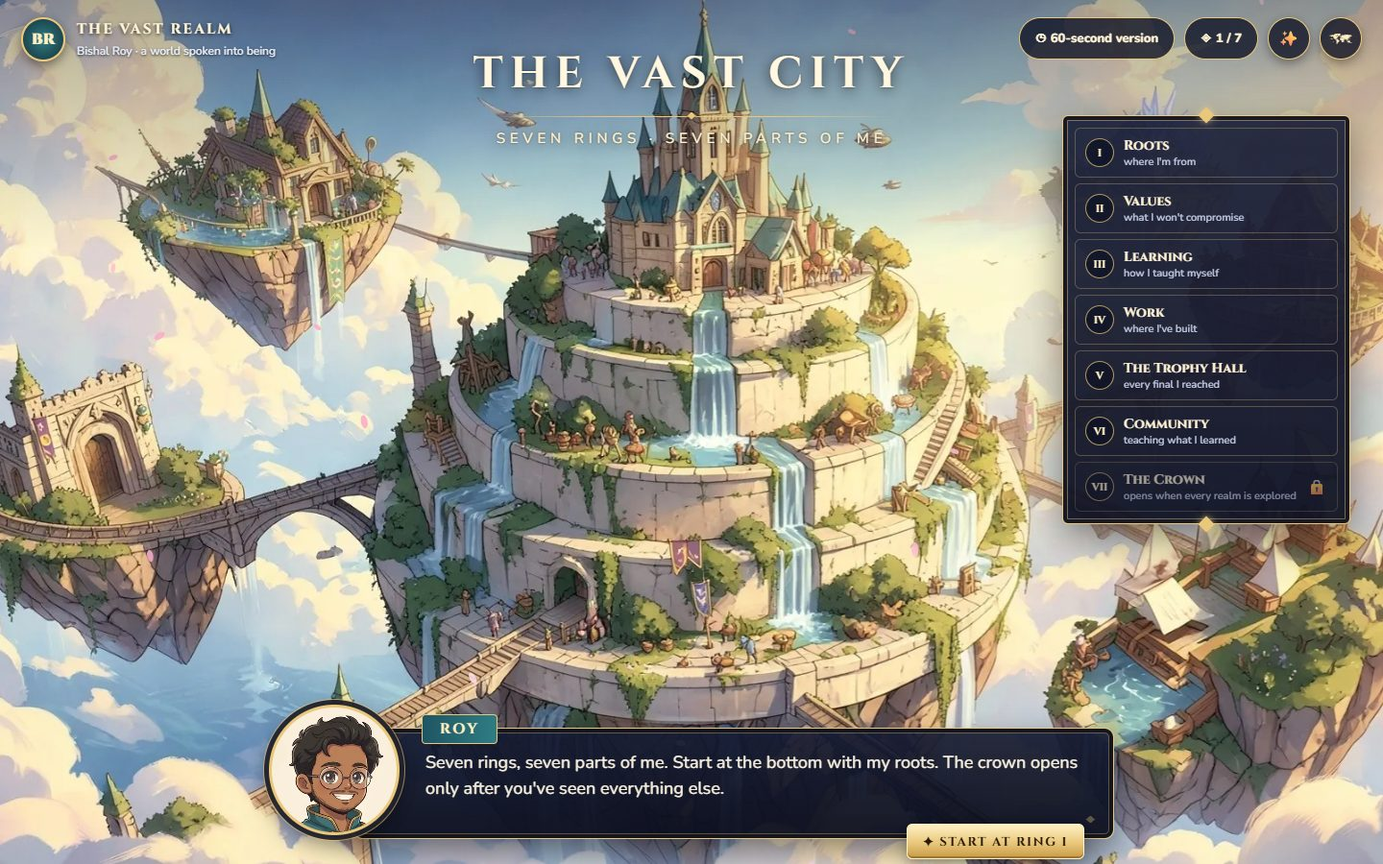
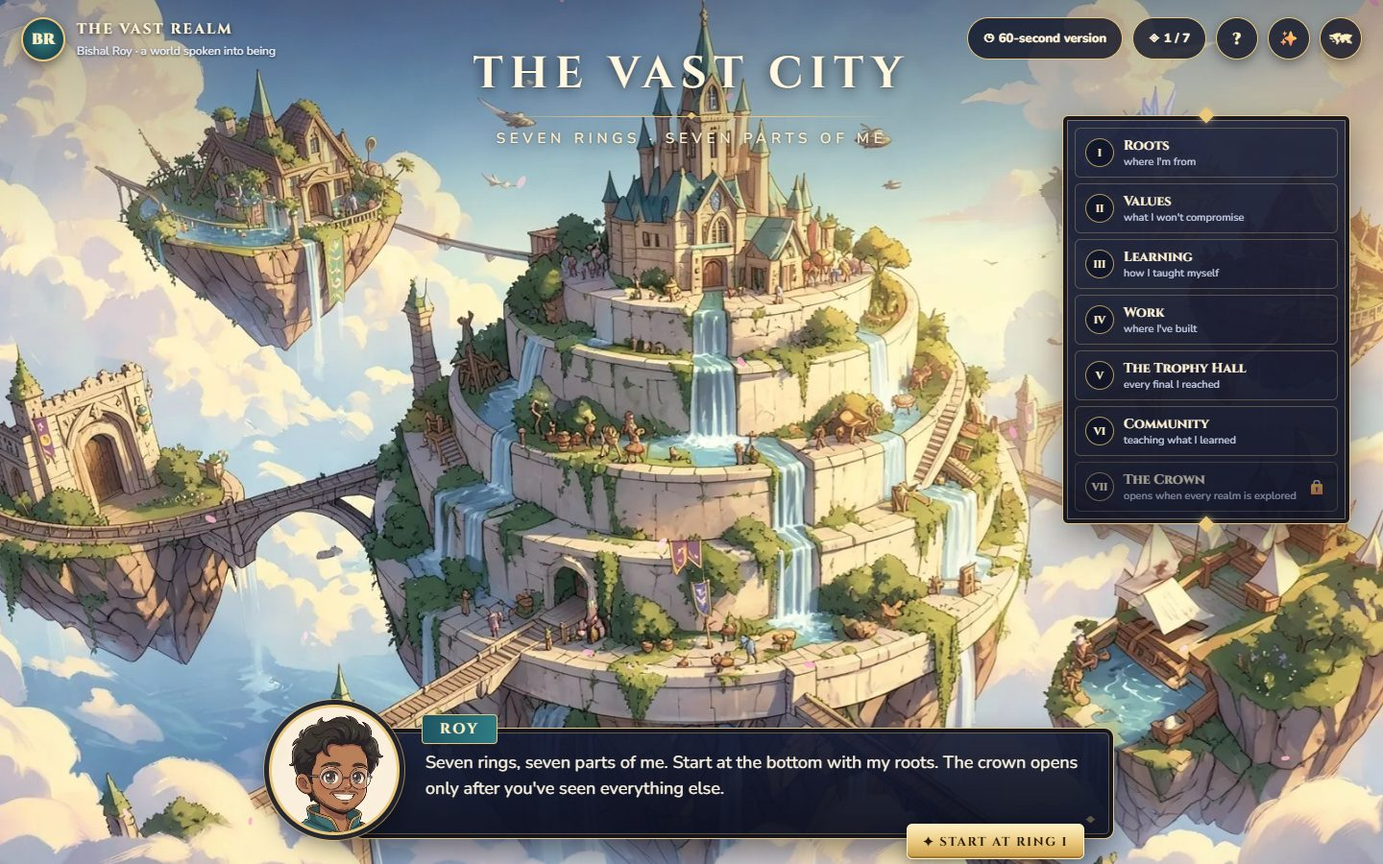
Explain every realm; the mirror reveals the cost; true Lighthouse story
- Welcome card on the first visit to each realm (what it is, how to explore),
  with a ? button in the HUD to reopen it.
- Lake of Mirrors: each tower says what it stands for; the card shows only
  the win until you turn the mirror, then the reflection (the cost) and the
  gold (how I mended it).
- Tower III and Depot II retold truthfully: second year going well, a liver
  infection, home to Chandrapur where my parents nursed me back, and the
  university practical exams a week later. (Not 'alone'.)
- Every shop and workshop explains the build in plain words.
- Tests: intro card and mirror-reveal checks; animation checks run before
  the (slow) phone screenshots.

Changed region(s): [[0.6875, 0.0, 0.9062, 0.0933]]

diff --git a/src/content.js b/src/content.js
@@ -79,7 +79,7 @@ export const LINE = [
     p: "It starts in Chandrapur. I came second in my school, with 100 out of 100 in maths. Then came two years at Inspire Junior College, preparing for JEE, until the lockdown stopped the train.",
     chips: [["2nd", "in my school"], ["100 / 100", "in maths"], ["88.80%", "overall"]],
     ticket: { n: "I", from: "Chandrapur", to: "Pune", cls: "Steam", yrs: "to 2022", brief: "The school years: second in school, full marks in maths, then JEE." },
-    expr: "happy", roy: "This is where it starts: a small steam train in Chandrapur. I came second in my school. Get used to that number. It follows me around." },
+    expr: "happy", roy: "This is my journey as a train. Stations are milestones; depots are where something broke and I rebuilt. It starts here, in Chandrapur. I came second in my school. Get used to that number." },
   { kind: "depot", id: "depot1", from: 0, to: 1, art: "bg-depot1-lockdown", title: "DEPOT I · THE LOCKDOWN",
     story: "April 2021. The second lockdown moved every class onto a screen, and my focus slipped into PUBG nights. JEE Main came back at about 88 percentile, I missed JEE Advanced by 0.0032 percentile, and Class 12 ended at 77.50%.",
     turn: "I learned exactly what losing focus costs. I chose AI & Data Science, and wrote a plan I still follow: analyst, then machine learning, then data scientist.",
@@ -90,9 +90,9 @@ export const LINE = [
     ticket: { n: "II", from: "Pune", to: "the first hackathons", cls: "Diesel", yrs: "2022 – 2024", brief: "College begins late. No laptop until January. Then Python, SQL, Power BI, and a lot of rejections." },
     expr: "happy", roy: "Pune. A late start, and the first engine change waiting ahead." },
   { kind: "depot", id: "depot2", from: 1, to: 2, art: "bg-depot2-hard-year", title: "DEPOT II · THE HARD YEAR",
-    story: "Internship after internship said no. Microsoft took me to the final round for a data-science internship, then said no too: my communication. Machine learning felt impossible, and no senior could guide me. Then, in my 4th semester, a liver infection: 10 kg gone in a week, and I was in hospital alone.",
-    turn: "When I got back, I found the teacher who finally made it click (Krish Naik), wrote my own notes from start to finish, joined my department club's tech team, and wrote my first research paper.",
-    time: "about one year", expr: "worried", roy: "This one hurt. A final round I lost, and a hospital bed I was alone in. But look at what rolled out of the depot." },
+    story: "Internship after internship said no. Microsoft took me to the final round for a data-science internship, then said no too: my communication. Machine learning felt impossible, and no senior could guide me. Then, in my 4th semester, a liver infection took 10 kg in a week, and I had to leave Pune for home in Chandrapur.",
+    turn: "My parents nursed me back, and a week later, still weak, I sat my university practical exams. Then I found the teacher who finally made it click (Krish Naik), wrote my own notes, joined my department club's tech team, and wrote my first research paper.",
+    time: "about one year", expr: "worried", roy: "This one hurt. A final round I lost, and a hospital bed. But look at what rolled out of the depot." },
   { kind: "leg", id: "leg3", leg: 2, art: "bg-leg3-electric", k: "STATION · LEG III", h: "SIH 2024 Grand Finale", s: "Indian Sign Language, two-way",
     p: "We were one of five teams chosen for the Indian Sign Language problem. At the Grand Finale it was -1°C and we went three nights without sleep, but the model worked both ways: signs to text, and text back to signs. We came out runner-up.",
     chips: [["Runner-up", "Grand Finale"], ["1 of 5", "teams chosen"]], lesson: "We believed we had the strongest solution. I started again within days.",
@@ -123,15 +123,17 @@ export const LINE = [
 
 // ---------- 04 Lake of Mirrors ----------
 export const TOWERS = [
-  { n: "I", name: "The Bell Tower", win: "I reached the final round at Microsoft, and the final five at Rajasthan Royals.", refl: "Both times, my communication and my nerves let me down at the very last step.", gold: "So I pitched at every hackathon after that, talked to everyone I could at iQOO, and told this whole world in my own voice." },
-  { n: "II", name: "The Silver Spire", win: "Second in school. Runner-up at SIH. Fourth at Rajasthan Royals. Semifinalist at NEST.", refl: "Never first. Not once.", gold: "My longest slump lasted three weeks, and then I got back up. Giving up is not in my dictionary." },
-  { n: "III", name: "The Lighthouse", win: "I came back and had my best semesters.", refl: "In my 4th semester, a liver infection took 10 kg in a week, and I was in hospital alone.",
-    gold: "I got through it on my own, and I came back." }, // PENDING: Bishal's own sentence
-  { n: "IV", name: "The Clockwork", win: "Top 8% (team) at Amazon ML 2025, with a new semi-supervised stack.", refl: "My best model was still training when the time ran out.", gold: "Now I plan the time budget first, and ship a safe version early." },
-  { n: "V", name: "The Tower of Books", win: "Now I teach: 8 GDG workshops on GenAI, LLMs and RAG.", refl: "For two years no one could guide me, and no course stuck.", gold: "I found the teacher who made it click, wrote my own notes, and then taught others." },
-  { n: "VI", name: "The Theatre", win: "At NEST, my idea was picked for the semifinal.", refl: "A cluttered demo at NEST, and a video I edited myself for ET that didn't make the cut.", gold: "Now I tell one clean story, and I explain the method." },
-  { n: "VII", name: "The Weathervane", win: "VayuNetra: air-quality forecasts for 6 cities, 72 hours ahead.", refl: "It was too heavy for free hosting, so the judges never saw it run.", gold: "Now I build for where it will actually run." },
-  { n: "VIII", name: "The Broken Bridge", win: "Feedback Loop at Interview Kickstart: 3,000+ classes scored.", refl: "On my last day, the full-time role didn't happen.", gold: "Days later I was a Grand Finalist in Bengaluru. Now I'm here." },
+  { n: "I", name: "The Bell Tower", about: "A bell is meant to be heard. This tower is about my voice: how I communicate.", win: "I reached the final round at Microsoft, and the final five at Rajasthan Royals.", refl: "Both times, my communication and my nerves let me down at the very last step.", gold: "So I pitched at every hackathon after that, talked to everyone I could at iQOO, and told this whole world in my own voice." },
+  { n: "II", name: "The Silver Spire", about: "Silver is the colour of second place. This tower is about always coming close.", win: "Second in school. Runner-up at SIH. Fourth at Rajasthan Royals. Semifinalist at NEST.", refl: "Never first. Not once.", gold: "My longest slump lasted three weeks, and then I got back up. Giving up is not in my dictionary." },
+  { n: "III", name: "The Lighthouse", about: "A lighthouse keeps its light on through the storm. This tower is about my health, and coming back.",
+    win: "In second year I was doing great: learning fast, and deep in my first research.",
+    refl: "Then a liver infection took 10 kg in a week. I ended up in hospital, and had to leave Pune and go home to Chandrapur to recover.",
+    gold: "My parents nursed me back. A week later, still weak, I sat my university practical exams anyway. The light stayed on." },
+  { n: "IV", name: "The Clockwork", about: "A clock at one minute to midnight. This tower is about time running out.", win: "Top 8% (team) at Amazon ML 2025, with a new semi-supervised stack.", refl: "My best model was still training when the time ran out.", gold: "Now I plan the time budget first, and ship a safe version early." },
+  { n: "V", name: "The Tower of Books", about: "A tower built from books. This tower is about learning without anyone to guide me.", win: "Now I teach: 8 GDG workshops on GenAI, LLMs and RAG.", refl: "For two years no one could guide me, and no course stuck.", gold: "I found the teacher who made it click, wrote my own notes, and then taught others." },
+  { n: "VI", name: "The Theatre", about: "A stage with its curtains open. This tower is about showing my work to judges.", win: "At NEST, my idea was picked for the semifinal.", refl: "A cluttered demo at NEST, and a video I edited myself for ET that didn't make the cut.", gold: "Now I tell one clean story, and I explain the method." },
+  { n: "VII", name: "The Weathervane", about: "A weathervane reads the air. This tower is about building for where things really run.", win: "VayuNetra: air-quality forecasts for 6 cities, 72 hours ahead.", refl: "It was too heavy for free hosting, so the judges never saw it run.", gold: "Now I build for where it will actually run." },
+  { n: "VIII", name: "The Broken Bridge", about: "Two towers, one mended bridge. This tower is about the job that didn't happen, and what came next.", win: "Feedback Loop at Interview Kickstart: 3,000+ classes scored.", refl: "On my last day, the full-time role didn't happen.", gold: "Days later I was a Grand Finalist in Bengaluru. Now I'm here." },
 ];
 // tower centre x (0-1 of the painting width) and top y (0-1 of height) in bg-lake-master
 export const LAKE_POS = [[.095, .19], [.205, .19], [.315, .15], [.44, .18], [.56, .16], [.675, .24], [.785, .20], [.91, .21]];
@@ -140,61 +142,61 @@ export const LAKE_POS = [[.095, .19], [.205, .19], [.315, .15], [.44, .18], [.56
 export const SHOPS = [
   { id: "oracle", name: "The Oracle's Reading Room", proj: "Feedback Loop · Interview Kickstart", stars: 5, item: "Scroll of Honest Feedback", type: "RELIC · EDTECH · LLM", itemImg: "item-scroll",
     stats: [["Class → feedback", "~9 min"], ["Cost per class", "~$1"], ["Classes scored", "3,000+"], ["Tests", "850+"]], flavour: "It shows its evidence.",
-    desc: "Every class scored; every weak class reviewed by an AI that quotes the moment it's talking about.", link: null, linkNote: "company code (private)" },
+    desc: "Interview Kickstart runs thousands of live classes. Feedback Loop scores every one, and an AI reviews the weak ones, quoting the exact moment it is talking about, so instructors get honest feedback in minutes, not days.", link: null, linkNote: "company code (private)" },
   { id: "apothecary", name: "The Apothecary of Right Doses", proj: "StripSense · iQOO Grand Finale", stars: 5, item: "Guardian's Pill Box", type: "RELIC · HEALTH · ANDROID", itemImg: "item-pillbox",
     stats: [["Built in", "41 h, solo"], ["Unit tests", "610"], ["Internet", "none needed"], ["On-device AI", "Gemma"]], flavour: "It would rather say no than guess.",
-    desc: "An offline helper that checks every strip of medicine before an older person takes it.", link: "https://github.com/roybishal362/StripSense" },
+    desc: "Older people can take the wrong strip of medicine. StripSense reads the strip with the phone camera, fully offline, and refuses whenever it is not sure.", link: "https://github.com/roybishal362/StripSense" },
   { id: "theatre-hands", interior: "theatre", name: "The Theatre of Hands", proj: "Mudra · SIH 2024", stars: 5, item: "Gloves of Two Tongues", type: "RELIC · ACCESSIBILITY", itemImg: "item-gloves",
     stats: [["Result", "Runner-up"], ["Teams chosen", "1 of 5"], ["Direction", "two-way"], ["Built with", "TensorFlow"]], flavour: "Signs become words. Words become signs.",
-    desc: "Indian Sign Language to text, and text back to signs.", link: null },
+    desc: "Deaf and hearing people often can't talk to each other. Mudra turns Indian Sign Language into text, and text back into signs.", link: null },
   { id: "scouts", name: "The Scouts' Guild", proj: "Cricket Scout · Rajasthan Royals", stars: 4, item: "Scout's Lens", type: "TOOL · SPORTS ANALYTICS", itemImg: "item-lens",
     stats: [["Result", "4th, solo"], ["Deliveries", "602,992"], ["Matches", "2,714"], ["Bowler bias", "fixed"]], flavour: "It sees the bowler the baseline missed.",
-    desc: "Finds uncapped cricketers who deserve a look, from ball-by-ball data.", link: "https://github.com/roybishal362/Rajasthan-Royals-SuperSelector-Cricket-Scouting-Intelligence-System-" },
+    desc: "Talented uncapped cricketers get missed. Cricket Scout reads 602,992 ball-by-ball deliveries and ranks the players who deserve a look, without the old bias towards batsmen.", link: "https://github.com/roybishal362/Rajasthan-Royals-SuperSelector-Cricket-Scouting-Intelligence-System-" },
   { id: "bridge-office", name: "The Bridge-Builders' Office", proj: "Kakehashi · India → Japan", stars: 4, item: "Bridge Charter", type: "TOOL · AGENTS · RAG", itemImg: "item-charter",
     stats: [["Fact checks", "132"], ["Contradictions", "0"], ["Working agents", "5"], ["Languages", "3"]], flavour: "A bridge built from official rules.",
-    desc: "Plans an Indian worker's move to Japan, grounded in official sources: an LLM judge found 0 contradictions in 132 fact checks.", link: "https://kakehashi-4e1v.vercel.app/" },
+    desc: "Moving to Japan for work means a maze of visa rules. Kakehashi plans the move with agents that answer only from official sources: an LLM judge found 0 contradictions in 132 fact checks.", link: "https://kakehashi-4e1v.vercel.app/" },
   { id: "observatory", name: "The Wind-Eye Observatory", proj: "VayuNetra", stars: 4, item: "Weather Glass", type: "TOOL · FORECASTING", itemImg: "item-weatherglass",
     stats: [["Cities", "6, ward level"], ["Horizon", "72 h"], ["Source match", "84.5%"], ["Languages", "7"]], flavour: "Honest about the cities it couldn't read.",
-    desc: "Air-quality forecasts and advice in English and six Indian languages.", link: "https://vayu-netra-urban-air-quality-intell.vercel.app" },
+    desc: "Air quality changes street by street. VayuNetra forecasts it 72 hours ahead for 6 Indian cities, ward by ward, and gives health advice in English and six Indian languages.", link: "https://vayu-netra-urban-air-quality-intell.vercel.app" },
   { id: "assay", name: "The Assay House", proj: "C-TRUST · Novartis NEST 2.0", stars: 4, item: "Seal of Safe Trials", type: "TOOL · HEALTHCARE DATA", itemImg: "item-seal",
     stats: [["Result", "semifinalist"], ["Agents", "7 + a guardian"], ["Tests", "331"], ["Studies", "23"]], flavour: "Same data, same answer, with a reason.",
-    desc: "Specialist agents score the quality of clinical-trial data, and a guardian agent checks that they agree.", link: "https://github.com/roybishal362/NEST_2.0_Hackthon" },
+    desc: "Clinical trials depend on clean data. In C-TRUST, specialist agents score each study's data quality, and a guardian agent checks that they agree, so the same data always gets the same answer.", link: "https://github.com/roybishal362/NEST_2.0_Hackthon" },
   { id: "appraiser", name: "The Appraiser's Scales", proj: "Smart Pricing · Amazon ML 2025", stars: 4, item: "Fair-Price Scales", type: "TOOL · MULTIMODAL ML", itemImg: "item-scales",
     stats: [["Result", "top 8% (team)"], ["Products", "75,000"], ["Features", "1,742"], ["Inputs", "text + image"]], flavour: "It weighs a picture and a paragraph.",
-    desc: "Predicts a product's price from its text and images.", link: "https://github.com/roybishal362/Amazon_ML_2025" },
+    desc: "Can you price a product from its listing alone? This model reads the text and the images of 75,000 products and predicts the price. Our team finished in the top 8%.", link: "https://github.com/roybishal362/Amazon_ML_2025" },
   { id: "boneclinic", name: "The Bone-Reader's Clinic", proj: "Knee MRI · RSNA on Kaggle", stars: 4, item: "Crystal of Twelve Findings", type: "TOOL · MEDICAL IMAGING", itemImg: "item-crystal",
     stats: [["Findings", "12"], ["MRI studies", "4,407"], ["Macro ROC-AUC", "0.91"], ["Held-out studies", "1,102"]], flavour: "It reads twelve things in one knee.",
-    desc: "A 2.5D transformer over DINOv2 features flags 12 findings in a knee MRI. I left the competition before the final submission, so there is no rank.", link: null, linkNote: "code private" },
+    desc: "Reading a knee MRI takes a specialist. This model looks at the scan slice by slice and flags 12 kinds of findings. I left the competition before the final submission, so there is no rank.", link: null, linkNote: "code private" },
   { id: "teahouse", name: "The Matchmaker's Tea House", proj: "WingMate · agentic dating", stars: 4, item: "Twin-Feather Charm", type: "TOOL · MULTI-AGENT", itemImg: "item-feathers",
     stats: [["People", "28"], ["Swipes", "707"], ["Dates", "53"], ["Turns a date", "6"]], flavour: "Every trait cites its evidence.",
-    desc: "Each person gets one agent that reads only their public profiles. The agents swipe, go on six-turn dates and write a debrief, all on free-tier models.", link: "https://wing-mate-seven.vercel.app" },
+    desc: "What if your AI went on the first date for you? Each person gets one agent that knows only their public profiles. The agents swipe, go on six-turn dates and write a debrief, all on free-tier models.", link: "https://wing-mate-seven.vercel.app" },
   { id: "postoffice", name: "The Courier's Post Office", proj: "Freshdesk connector · MCP", stars: 4, item: "Courier's Seal", type: "TOOL · MCP · AGENTS", itemImg: "item-sortingseal",
     stats: [["Typed tools", "10"], ["Protocol", "JSON-RPC"], ["On overload", "backoff + breaker"], ["Built as", "a take-home"]], flavour: "Agents can read and answer the help desk.",
-    desc: "An MCP server that lets AI agents list, search, create and update support tickets, with adaptive rate limiting.", link: null, linkNote: "take-home (private)" },
+    desc: "Support teams live in their help desk. This MCP server lets AI agents list, search, create and update Freshdesk tickets, and backs off safely when the help desk is busy.", link: null, linkNote: "take-home (private)" },
   { id: "gatekeeper", name: "The Gatekeeper's Tower", proj: "Urumi · MCP gateway", stars: 4, item: "Master Key Ring", type: "TOOL · PLATFORM · SECURITY", itemImg: "item-keyring",
     stats: [["Layers", "4"], ["Tests", "49"], ["Runs on", "Kubernetes"], ["API keys", "hashed"]], flavour: "One gate, many tools, every key checked.",
-    desc: "One MCP server for a team, in front of many: encrypted credentials, rate limits, and a written threat model.", link: "https://github.com/roybishal362/Urumi" },
+    desc: "A team using many AI tools needs one safe front door. Urumi is a single MCP gateway in front of many servers, with encrypted credentials, rate limits and a written threat model.", link: "https://github.com/roybishal362/Urumi" },
 ];
 
 // ---------- 06 Crafters' Quarter ----------
 export const WORKSHOPS = [
-  { id: "forge", name: "The Dwarven Forge", sub: "engineering & shipping", art: "bg-forge", sheet: "stages-sword", act: "STRIKE THE ANVIL", color: "#ffb35c", item: "The Blade of Shipping",
+  { id: "forge", name: "The Dwarven Forge", sub: "engineering & shipping", about: "How I build and ship software, from a Python script to a live, tested product.", art: "bg-forge", sheet: "stages-sword", act: "STRIKE THE ANVIL", color: "#ffb35c", item: "The Blade of Shipping",
     skills: ["Python", "FastAPI", "Docker", "PostgreSQL", "Next.js", "pytest · 850+"], logos: ["python", "fastapi", "docker", "postgresql", "nextdotjs", "pytest"],
     stages: ["Rough iron · Python scripts", "Shaped · APIs with FastAPI", "Tempered · Docker & deployment", "Engraved · tests and reliability", "Rune-lit · a live product"],
     roy: "The dwarves turn code into steel. Every strike is a skill I actually ship with." },
-  { id: "alchemist", name: "The Alchemist's Lab", sub: "data & machine learning", art: "ws-alchemist", sheet: "stages-potion", act: "STIR THE CAULDRON", color: "#7cf0a0", item: "The Grove of Prediction",
+  { id: "alchemist", name: "The Alchemist's Lab", sub: "data & machine learning", about: "How I turn raw data into predictions, from SQL to boosted trees and neural networks.", art: "ws-alchemist", sheet: "stages-potion", act: "STIR THE CAULDRON", color: "#7cf0a0", item: "The Grove of Prediction",
     skills: ["SQL", "pandas", "NumPy", "scikit-learn", "XGBoost", "LightGBM", "PyTorch"], logos: ["mysql", "pandas", "numpy", "scikitlearn", "pytorch"],
     stages: ["Raw crystals · data pulled with SQL", "The ledger · cleaned with pandas", "The prism · features engineered", "The magic tree · a decision tree", "The grove · boosted trees + a neural crystal"],
     roy: "The alchemists turn raw data into predictions. My HackerRank SQL gold badge started here." },
-  { id: "witches", name: "The Witches' Spell Tower", sub: "generative AI", art: "ws-witches", sheet: "stages-spell", act: "CAST THE NEXT PAGE", color: "#c9a5ff", item: "The Grimoire of Grounded Answers",
+  { id: "witches", name: "The Witches' Spell Tower", sub: "generative AI", about: "How I build with language models that stay grounded: prompts, RAG, agents, caching and evals.", art: "ws-witches", sheet: "stages-spell", act: "CAST THE NEXT PAGE", color: "#c9a5ff", item: "The Grimoire of Grounded Answers",
     skills: ["LLMs", "RAG", "agents", "prompt caching", "LangChain", "evaluation"], logos: ["claude", "googlegemini", "langchain", "huggingface"],
     stages: ["Page 1 · the prompt", "Page 2 · RAG, the library memory", "Page 3 · agents, familiars with tools", "Page 4 · prompt caching", "Page 5 · evals, the balance and the eye"],
     roy: "The witches cast what I can actually do with language models, and none of it makes things up." },
-  { id: "elves", name: "The Elven Library", sub: "research", art: "ws-elven-library", sheet: "stages-book", act: "TURN THE PAGE", color: "#9cf5bd", item: "The Lantern of Knowledge",
+  { id: "elves", name: "The Elven Library", sub: "research", about: "How I do research: a question, the data, careful experiments, and a paper.", art: "ws-elven-library", sheet: "stages-book", act: "TURN THE PAGE", color: "#9cf5bd", item: "The Lantern of Knowledge",
     skills: ["papers", "experiments", "statistics", "Kaggle", "cross-validation"], logos: ["kaggle", "jupyter"],
     stages: ["A question scroll", "A Kaggle data chest", "The experiment log · cross-validation", "A manuscript under review", "The lantern · knowledge shared at GDG"],
     roy: "The elves keep my research: two papers under review, five Kaggle competitions, and a lot of failed experiments." },
-  { id: "bards", name: "The Bards' Hall", sub: "communication · growing fastest", art: "ws-bards", sheet: "stages-song", act: "PLAY THE NEXT SONG", color: "#ffd29a", item: "The Song That Got Louder",
+  { id: "bards", name: "The Bards' Hall", sub: "communication · growing fastest", about: "How I learned to talk about my work, from nervous pitches to this world, told in my own voice.", art: "ws-bards", sheet: "stages-song", act: "PLAY THE NEXT SONG", color: "#ffd29a", item: "The Song That Got Louder",
     skills: ["pitching", "teaching", "writing", "storytelling", "listening"], logos: [],
     stages: ["Whistle · nervous pitches", "Drum · GDG workshops", "Lute · the stage at RR", "Harp · networking at iQOO", "Enchanted harp · this world, in my voice"],
     roy: "My weakest skill once. The one I've grown the most." },
@@ -244,4 +246,24 @@ export const SKYPORT = {
     ask: "A seat on the India growth team, from November.",
     mission: "Route I: Ghar ka Flow. Ten families, two weeks, a real number.",
   },
+};
+
+// ---------- realm intros: what each place is, and how to explore it ----------
+export const INTRO = {
+  world: { title: "The Vast Realm", what: "This world is my story. Each floating island is one part of it, and Roy, a tiny version of me, flies you between them.",
+    how: ["Drag to turn the world, or use ⟲ ⟳", "Click an island to travel there", "In a hurry? The 60-second version is always at the top right"] },
+  city: { title: "The Vast City", what: "Who I am, in seven rings: my roots, my values, how I learned, where I've worked, the finals I've reached, the people I teach, and a crown at the top.",
+    how: ["Pick a ring, or start at Ring I and climb", "The Crown opens once you've explored every realm"] },
+  line: { title: "The Long Line", what: "My journey from school to today, as a train. Stations are the milestones. Depots are where something broke, and the engine I rebuilt there.",
+    how: ["Read the station card and its ticket", "At a depot, press Roll out to change the engine", "Use ← → or the buttons to ride the line"] },
+  lake: { title: "The Lake of Mirrors", what: "Every tower here is a win I'm proud of. Its reflection in the water is the part I don't usually tell: what that win cost me, and how I mended it.",
+    how: ["Tap a tower to fly in and see the win", "Press ⇅ Turn the mirror to see the other side of the story", "The gold cracks are how I fixed it"] },
+  ring: { title: "The Lantern Ring", what: "A night market of twelve shops. Each shop is one thing I've built, and each one hands you a card with the real numbers.",
+    how: ["Drag, or use ⟲ ⟳, to turn around the fountain", "Enter the shop in front of you", "Add its card to your bag, and collect all twelve"] },
+  crafters: { title: "The Crafters' Quarter", what: "Five workshops, one for each family of my skills: engineering, data and machine learning, generative AI, research, and communication.",
+    how: ["Pick a workshop door", "Press its action and watch the item grow, stage by stage", "Each stage is a real skill, with the tools I use"] },
+  echo: { title: "The Echo Caves", what: "Proof that this whole world was built by voice. Each crystal holds a sentence I really said while building it, and the cave can hear you too.",
+    how: ["Pick a crystal to read what I said, word for word", "Hold the 🎙 and say a realm, like \"take me to the lake\"", "No microphone? Tap one of the phrases"] },
+  skyport: { title: "The Wispr Skyport", what: "The top of the world, and where my journey goes next: my plan for growing Wispr Flow in India, and my first 30 days.",
+    how: ["Open a flight plan to read the full idea", "Board the airship for the Council Chamber"] },
 };

diff --git a/src/App.jsx b/src/App.jsx
@@ -3,7 +3,7 @@ import { motion, AnimatePresence } from "framer-motion";
 import Stage from "./components/Stage";
 import { Btn } from "./components/Ui";
 import { useRoute, go, preload, art, store, useStore, wait, motion as motionSwitch, useMotion } from "./lib/core";
-import { REALMS, SIXTY, PERSON } from "./content";
+import { REALMS, SIXTY, PERSON, INTRO } from "./content";
 import { PRELOAD } from "./lib/preloads";
 import Title from "./scenes/Title";
 import World from "./scenes/World";
@@ -45,7 +45,7 @@ function CloudWipe({ wipe }) {
   );
 }
 
-function Hud({ onSixty, realm }) {
+function Hud({ onSixty, realm, onIntro }) {
   const { visited } = useStore();
   const n = REALM_IDS.filter((id) => visited.includes(id)).length;
   return (
@@ -57,10 +57,32 @@ function Hud({ onSixty, realm }) {
       <div className="hud-tr">
         <button type="button" className="pillh" onClick={onSixty}>◷ 60-second version</button>
         <div className="pillh" title="Realms explored">◈ {n} / {REALM_IDS.length}</div>
+        {INTRO[realm] && <button type="button" className="ico" onClick={onIntro} aria-label="What is this place?" title="What is this place?">?</button>}
         <MotionBtn />
         {realm !== "world" && <button type="button" className="ico" onClick={() => go("/world")} aria-label="World map" title="World map">🗺</button>}
       </div>
     </div>
+  );
+}
+
+function Intro({ id, onClose }) {
+  const it = INTRO[id];
+  useEffect(() => {
+    const f = (e) => { if (e.key === "Escape" || e.key === "Enter") { e.preventDefault(); e.stopPropagation(); onClose(); } };
+    window.addEventListener("keydown", f, true); return () => window.removeEventListener("keydown", f, true);
+  }, [onClose]);
+  return (
+    <motion.div className="overlay intro-ov" initial={{ opacity: 0 }} animate={{ opacity: 1 }} exit={{ opacity: 0 }} onClick={onClose}>
+      <motion.div className="panel intro" initial={{ y: 24, opacity: 0, scale: 0.96 }} animate={{ y: 0, opacity: 1, scale: 1 }} exit={{ y: 12, opacity: 0 }} transition={{ duration: 0.4 }} onClick={(e) => e.stopPropagation()}>
+        <div className="k">◆ REALM DISCOVERED ◆</div>
+        <h2>{it.title}</h2>
+        <h4>WHAT IS THIS PLACE?</h4>
+        <p>{it.what}</p>
+        <h4>HOW TO EXPLORE</h4>
+        <ul>{it.how.map((h) => <li key={h}>{h}</li>)}</ul>
+        <div className="b"><Btn onClick={onClose} autoFocus>✦ EXPLORE</Btn></div>
+      </motion.div>
+    </motion.div>
   );
 }
 
@@ -97,6 +119,8 @@ export default function App() {
   const [shown, setShown] = useState(route);
   const [wipe, setWipe] = useState(null);
   const [sixty, setSixty] = useState(false);
+  const [intro, setIntro] = useState(null);
+  const { seen = [] } = useStore();
   const seq = useRef(0);
 
   useEffect(() => {
@@ -126,6 +150,15 @@ export default function App() {
     window.addEventListener("keydown", f); return () => window.removeEventListener("keydown", f);
   }, [shown.realm]);
 
+  // show the realm's intro card once, after the clouds have opened
+  useEffect(() => {
+    if (wipe || !INTRO[shown.realm] || seen.includes(shown.realm)) return;
+    const t = setTimeout(() => setIntro(shown.realm), 250);
+    return () => clearTimeout(t);
+  }, [wipe, shown.realm]); // eslint-disable-line react-hooks/exhaustive-deps
+  useEffect(() => { if (intro && intro !== shown.realm) setIntro(null); }, [shown.realm, intro]);
+  const closeIntro = () => { store.seeIntro(intro); setIntro(null); };
+
   const Scene = SCENES[shown.realm] || Title;
   return (
     <Stage>
@@ -134,8 +167,9 @@ export default function App() {
           <Scene route={shown} busy={!!wipe} onSixty={() => setSixty(true)} />
         </motion.div>
       </AnimatePresence>
-      {shown.realm !== "title" && <Hud onSixty={() => setSixty(true)} realm={shown.realm} />}
+      {shown.realm !== "title" && <Hud onSixty={() => setSixty(true)} realm={shown.realm} onIntro={() => setIntro(shown.realm)} />}
       <CloudWipe wipe={wipe} />
+      <AnimatePresence>{intro && !wipe && <Intro key={intro} id={intro} onClose={closeIntro} />}</AnimatePresence>
       <AnimatePresence>{sixty && <Sixty onClose={() => setSixty(false)} />}</AnimatePresence>
     </Stage>
   );

diff --git a/src/scenes/Lake.jsx b/src/scenes/Lake.jsx
@@ -82,15 +82,27 @@ export default function Lake({ route }) {
         <motion.div key={i} className={"panel lk-card" + (flip ? " flipped" : "")} initial={{ opacity: 0, x: -24 }} animate={{ opacity: 1, x: 0 }} exit={{ opacity: 0, x: -24 }} transition={{ duration: 0.4, delay: 0.2 }}>
           <div className="k">TOWER {t.n} OF VIII</div>
           <h2>{t.name}</h2>
+          <div className="lk-about">{t.about}</div>
           <div className="sec s1"><b>THE TOWER · WHAT YOU SEE</b><p>{t.win}</p></div>
-          <div className="sec s2"><b>THE REFLECTION · WHAT IT HID</b><p>{t.refl}</p></div>
-          <div className="sec s3"><b>THE GOLD · HOW I MENDED IT</b><p>{t.gold}</p></div>
+          <AnimatePresence initial={false} mode="wait">
+            {flip ? (
+              <motion.div key="other" initial={{ opacity: 0, y: 12 }} animate={{ opacity: 1, y: 0 }} exit={{ opacity: 0 }} transition={{ duration: 0.45, delay: 0.35 }}>
+                <div className="sec s2"><b>THE REFLECTION · WHAT IT COST ME</b><p>{t.refl}</p></div>
+                <div className="sec s3"><b>THE GOLD · HOW I MENDED IT</b><p>{t.gold}</p></div>
+              </motion.div>
+            ) : (
+              <motion.button type="button" key="hint" className="lk-hint" onClick={() => setFlip(true)} initial={{ opacity: 0 }} animate={{ opacity: 1 }} exit={{ opacity: 0 }}>
+                <b>⇅ THE WATER HIDES THE OTHER HALF</b>
+                <span>Turn the mirror to see what this win cost me, and how I mended it.</span>
+              </motion.button>
+            )}
+          </AnimatePresence>
         </motion.div>
       </AnimatePresence>
       <div className="panel lk-bar">
         <div className="tok">{TOWERS.map((x, j) => <button type="button" key={x.n} className={j === i ? "on" : ""} onClick={() => go(`/lake/${j + 1}`)} aria-label={`Tower ${x.n}`}>{x.n}</button>)}</div>
         <Btn dark className="sm" onClick={() => go("/lake")}>◀ THE LAKE</Btn>
-        <Btn dark className="sm" onClick={() => setFlip((f) => !f)}>⇅ {flip ? "TURN IT BACK" : "TURN THE MIRROR"}</Btn>
+        <Btn dark={flip} className={"sm" + (flip ? "" : " lk-pulse")} onClick={() => setFlip((f) => !f)}>⇅ {flip ? "TURN IT BACK" : "TURN THE MIRROR"}</Btn>
         <Btn className="sm" onClick={() => go(i < 7 ? `/lake/${i + 2}` : "/lake")}>{i < 7 ? "NEXT TOWER ▶" : "BACK TO THE LAKE"}</Btn>
       </div>
     </>

diff --git a/src/lib/core.js b/src/lib/core.js
@@ -42,7 +42,7 @@ export const go = (path) => {
 
 // ---------- saved progress (localStorage) ----------
 const KEY = "vast-realm-v1";
-let state = { visited: [], bag: [], stages: {}, crystals: [] };
+let state = { visited: [], bag: [], stages: {}, crystals: [], seen: [] };
 try { state = { ...state, ...JSON.parse(localStorage.getItem(KEY) || "{}") }; } catch { /* first visit */ }
 const subs = new Set();
 function save() { try { localStorage.setItem(KEY, JSON.stringify(state)); } catch { /* private mode */ } subs.forEach((f) => f()); }
@@ -52,7 +52,8 @@ export const store = {
   visit(realm) { if (!state.visited.includes(realm)) { state = { ...state, visited: [...state.visited, realm] }; save(); } },
   addToBag(id) { if (!state.bag.includes(id)) { state = { ...state, bag: [...state.bag, id] }; save(); return true; } return false; },
   setStage(ws, n) { state = { ...state, stages: { ...state.stages, [ws]: n } }; save(); },
-  reset() { state = { visited: [], bag: [], stages: {}, crystals: [] }; save(); },
+  seeIntro(id) { const seen = state.seen || []; if (!seen.includes(id)) { state = { ...state, seen: [...seen, id] }; save(); } },
+  reset() { state = { visited: [], bag: [], stages: {}, crystals: [], seen: [] }; save(); },
 };
 export const useStore = () => useSyncExternalStore(store.subscribe, store.get);
 

diff --git a/src/styles/app.css b/src/styles/app.css
@@ -114,3 +114,17 @@ a{color:inherit;text-decoration:none}
 
 /* motion switch off: stop the decorative loops (scene transitions stay short and gentle) */
 .calm .living img.drift,.calm .w-isl img,.calm .w-balloon,.calm .cr-isl,.calm .dlg .next,.calm .ll-sig .lamp{animation:none !important}
+
+/* ---------- realm intro card ---------- */
+.intro-ov{z-index:140}
+.intro{position:relative;width:620px;padding:26px 32px 24px;text-align:left}
+.intro .k{text-align:center}
+.intro h2{font-family:Cinzel,serif;font-size:32px;color:#fff6dc;text-align:center;margin:4px 0 10px;letter-spacing:.06em}
+.intro h4{font-family:Cinzel,serif;font-size:12px;letter-spacing:.18em;color:var(--gold);margin-top:12px}
+.intro p{font-size:16.5px;line-height:1.6;color:#eef1ff;margin-top:4px}
+.intro ul{list-style:none;margin-top:6px;display:flex;flex-direction:column;gap:6px}
+.intro li{font-size:15px;line-height:1.45;color:#eef1ff;padding-left:20px;position:relative}
+.intro li::before{content:'◆';position:absolute;left:0;color:var(--gold);font-size:11px;top:3px}
+.intro .b{display:flex;justify-content:center;margin-top:18px}
+.stage.portrait .intro{width:740px}
+.hud-tr .ico{font-family:Cinzel,serif;font-weight:900}

diff --git a/src/scenes/Lake.css b/src/scenes/Lake.css
@@ -34,3 +34,12 @@
 .portrait .lk-bar .tok{margin:0 auto;width:100%;justify-content:center}
 .portrait .lk-region{right:0;left:0;width:auto;top:60px}
 .portrait .lk-nav{bottom:250px}
+
+.lk-about{font-family:'Cormorant Garamond',serif;font-style:italic;font-size:16.5px;line-height:1.35;color:#ffe9c2;margin:4px 0 2px}
+.lk-hint{display:block;width:100%;text-align:left;margin-top:10px;padding:12px 14px;border-radius:8px;border:1px dashed rgba(224,122,95,.85);background:rgba(194,85,63,.12);cursor:pointer;transition:background .2s}
+.lk-hint:hover{background:rgba(194,85,63,.24)}
+.lk-hint b{display:block;font-family:Cinzel,serif;font-size:11.5px;letter-spacing:.14em;color:#ffab94}
+.lk-hint span{display:block;font-size:14.5px;line-height:1.45;color:#eef1ff;margin-top:3px}
+.lk-pulse{animation:lkpulse 1.8s ease-in-out infinite}
+@keyframes lkpulse{50%{box-shadow:0 0 22px rgba(255,200,120,.9),0 6px 18px rgba(0,0,0,.4)}}
+.calm .lk-pulse{animation:none}

diff --git a/src/scenes/Crafters.jsx b/src/scenes/Crafters.jsx
@@ -71,7 +71,7 @@ function Workshop({ i }) {
         {w.skills.map((s, j) => <motion.span key={s} className="cr-rune" style={{ left: 470 + ((j * 173) % 440), top: 220 + ((j * 97) % 190) }}
           initial={{ opacity: 0, scale: 0.6 }} animate={{ opacity: 1, scale: 1, y: [0, -8, 0] }} transition={{ delay: 0.3 + j * 0.08, y: { duration: 4 + j * 0.3, repeat: Infinity } }}>{s}</motion.span>)}
       </div>
-      <div className="panel cr-make">WHAT'S BEING MADE<b>{w.item}</b>
+      <div className="panel cr-make">WHAT'S BEING MADE<b>{w.item}</b><p className="cr-about">{w.about}</p>
         {w.logos.length > 0 && <div className="cr-logos">{w.logos.map((l) => <img key={l} src={`/art/logos/${l}.svg`} alt={l} title={l} />)}</div>}
       </div>
       <div className="panel cr-strip">

diff --git a/src/scenes/Crafters.css b/src/scenes/Crafters.css
@@ -31,3 +31,5 @@
 .portrait .cr-nav{bottom:640px}
 .portrait .cr-make{left:30px;right:30px;max-width:none;top:140px}
 .portrait .cr-runes{display:none}
+
+.cr-about{font-family:Nunito,sans-serif;font-size:13px;letter-spacing:0;line-height:1.45;color:#e8ecff;margin-top:6px;text-transform:none}

diff --git a/README.md b/README.md
@@ -33,6 +33,8 @@
 It is also an honest portfolio: the failures sit right next to the wins, because both are true at the same time.
 
 > **No time?** Every screen has a **60-second version** button: the whole story on one card, with email, résumé and LinkedIn.
+>
+> **New here?** The first time you enter a realm, a welcome card explains what the place is and how to explore it; the **?** button brings it back.
 
 ---
 
@@ -86,11 +88,11 @@ Steam (school in Chandrapur) → diesel (college in Pune) → electric (the hack
 </tr></table>
 
 ### The Lake of Mirrors: eight wins, and what each one cost
-Eight towers stand in a still lake, each with gold-mended cracks. Tap one and the camera flies in: **the tower** (the win), **the reflection** (what it cost), **the gold** (how I mended it). **Turn the mirror** and the whole lake flips, so the failures stand up and the wins become the reflection.
+Eight towers stand in a still lake, each with gold-mended cracks, and each one stands for something (the Lighthouse keeps its light on through the storm: my health, and coming back). Tap a tower and the camera flies in, but at first you only see **the win**. **Turn the mirror** and the tower flips: **the reflection** shows what that win cost me, and **the gold** shows how I mended it. Turn the whole lake and the failures stand up while the wins become the reflection.
 
 <table><tr>
 <td><img src="docs/screens/09-lake.jpg" alt="The Lake of Mirrors with eight labelled towers"></td>
-<td><img src="docs/screens/10-tower.jpg" alt="Tower II, the Silver Spire: never first"></td>
+<td><img src="docs/screens/10-tower.jpg" alt="Tower II, the Silver Spire, after turning the mirror: the cost and the gold"></td>
 <td><img src="docs/screens/11-mirror.jpg" alt="The mirror turned: the lake flipped upside down"></td>
 </tr></table>
 
@@ -163,6 +165,7 @@ Three flight plans for Wispr Flow India (**Ghar ka Flow**, **Campus Flow**, **Bo
 - **Transitions:** cloud wipes that preload the next realm while they cover the screen, the balloon flight, the depot engine change, the lake fly-in, a light bloom when you enter a shop, and a forge flash with a logo burst.
 - **Content as data.** Every word on the site lives in one file, [`src/content.js`](src/content.js).
 - **Progress is remembered** (`localStorage`): realms visited, your bag of item cards, the stage of every workshop.
+- **Every realm explains itself.** A welcome card on first entry (what it is, how to explore), a ? button to reopen it, and a plain-words description for every project and workshop.
 - **Accessible and calm when asked.** Keyboard navigation (arrows, Enter, Esc, M for the map), focus rings, alt text, and a ✨ switch in the HUD that turns the animations off.
 - **Light.** 133 paintings as WebP (12 MB in total), loaded realm by realm; the JavaScript bundle is about 120 KB gzipped.
 
